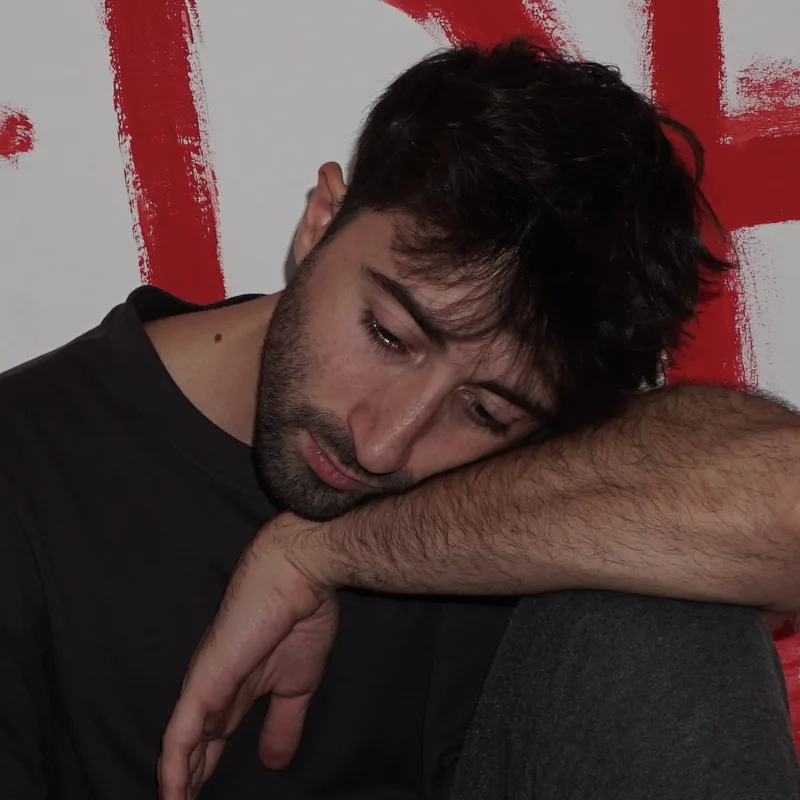
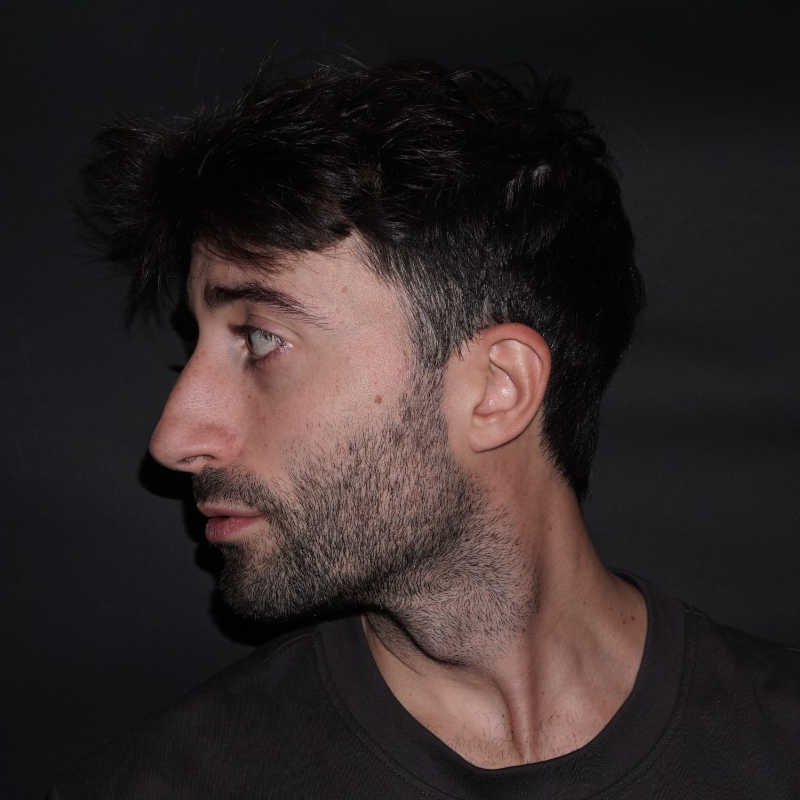
Updated cast n content

diff --git a/app/content.ts b/app/content.ts
@@ -413,18 +413,19 @@ export const OPERE = {
              Morgan from the gallery's DSC00963, Noemi the one on the right in
              DSC09272). */
           cast: [
-            { name: "Mattia Dagli Orti", role: { it: "Regia, interprete", en: "Director, actor" }, photo: { src: "/people/cast/mattia.webp", width: 800, height: 800 } },
-            { name: "Alexandra Frabetti", role: { it: "Regia, interprete", en: "Director, actor" }, photo: { src: "/people/cast/alexandra.webp", width: 800, height: 800 } },
-            { name: "Morgan Bonanno", role: { it: "Interprete", en: "Actor" }, photo: { src: "/people/cast/morgan.webp", width: 800, height: 800 } },
-            { name: "Nicola Brescacin", role: { it: "Direzione della fotografia, operatore", en: "Director of photography, camera operator" }, photo: { src: "/people/cast/nicola.webp", width: 800, height: 800 } },
-            { name: "Ted Alushani", role: { it: "Sound design, microfonista", en: "Sound design, boom operator" }, photo: { src: "/people/cast/ted.webp", width: 800, height: 800 } },
-            { name: "Giovanni Barresi", role: { it: "Gaffer, operatore", en: "Gaffer, camera operator" }, photo: { src: "/people/cast/giovanni.webp", width: 800, height: 800 } },
-            { name: "Matilde Bosco", role: { it: "Segretaria di edizione", en: "Continuity supervisor" }, photo: { src: "/people/cast/matilde.webp", width: 800, height: 800 } },
-            { name: "Noemi Belluzzo", role: { it: "Segretaria di edizione, foto di backstage", en: "Continuity supervisor, backstage photography" }, photo: { src: "/people/cast/noemi.webp", width: 800, height: 800 } },
-            { name: "Andrea Berardi", role: { it: "Foto di backstage", en: "Backstage photography" }, photo: { src: "/people/cast/andrea.webp", width: 800, height: 800 } },
+            { name: "Mattia Dagli Orti", role: { it: "Director, actor", en: "Director, actor" }, photo: { src: "/people/cast/mattia.webp", width: 800, height: 800 } },
+            { name: "Alexandra Frabetti", role: { it: "Director, actor", en: "Director, actor" }, photo: { src: "/people/cast/alexandra.webp", width: 800, height: 800 } },
+            { name: "Morgan Bonanno", role: { it: "Actor", en: "Actor" }, photo: { src: "/people/cast/morgan.webp", width: 800, height: 800 } },
+            { name: "Nicola Brescacin", role: { it: "Director of photography, camera operator", en: "Director of photography, camera operator" }, photo: { src: "/people/cast/nicola.webp", width: 800, height: 800 } },
+            { name: "Ted Alushani", role: { it: "Sound design, boom operator", en: "Sound design, boom operator" }, photo: { src: "/people/cast/ted.webp", width: 800, height: 800 } },
+            { name: "Emma Berto", role: { it: "Additional gaffer", en: "Sound design, boom operator" }, photo: { src: "/people/cast/emma.webp", width: 800, height: 800 } },
+            { name: "Giovanni Barresi", role: { it: "Gaffer, camera operator", en: "Gaffer, camera operator" }, photo: { src: "/people/cast/giovanni.webp", width: 800, height: 800 } },
+            { name: "Matilde Bosco", role: { it: "Continuity supervisor", en: "Continuity supervisor" }, photo: { src: "/people/cast/matilde.webp", width: 800, height: 800 } },
+            { name: "Noemi Belluzzo", role: { it: "Continuity supervisor, backstage photography", en: "Continuity supervisor, backstage photography" }, photo: { src: "/people/cast/noemi.webp", width: 800, height: 800 } },
+            { name: "Andrea Berardi", role: { it: "Backstage photography", en: "Backstage photography" }, photo: { src: "/people/cast/andrea.webp", width: 800, height: 800 } },
             { name: "Lucia Meroni", role: { it: "Catering", en: "Catering" }, photo: { src: "/people/cast/lucia.webp", width: 800, height: 800 } },
             { name: "Sebastiano Scapinello", role: { it: "Microfonista aggiunto", en: "Additional boom operator" }, photo: { src: "/people/cast/sebastiano.webp", width: 800, height: 800 } },
-            { name: "Gianmarco Dolino", role: { it: "Microfonista aggiunto", en: "Additional boom operator" }, photo: { src: "/people/cast/gianmarco.webp", width: 800, height: 800 } },
+            { name: "Gianmarco Dolino", role: { it: "Additional boom operator", en: "Additional boom operator" }, photo: { src: "/people/cast/gianmarco.webp", width: 800, height: 800 } },
           ],
           /* From the set. The masters are in stroma_assets/BACKSTAGE/ (outside
              the repo), reduced to 1800px on the long side. */
